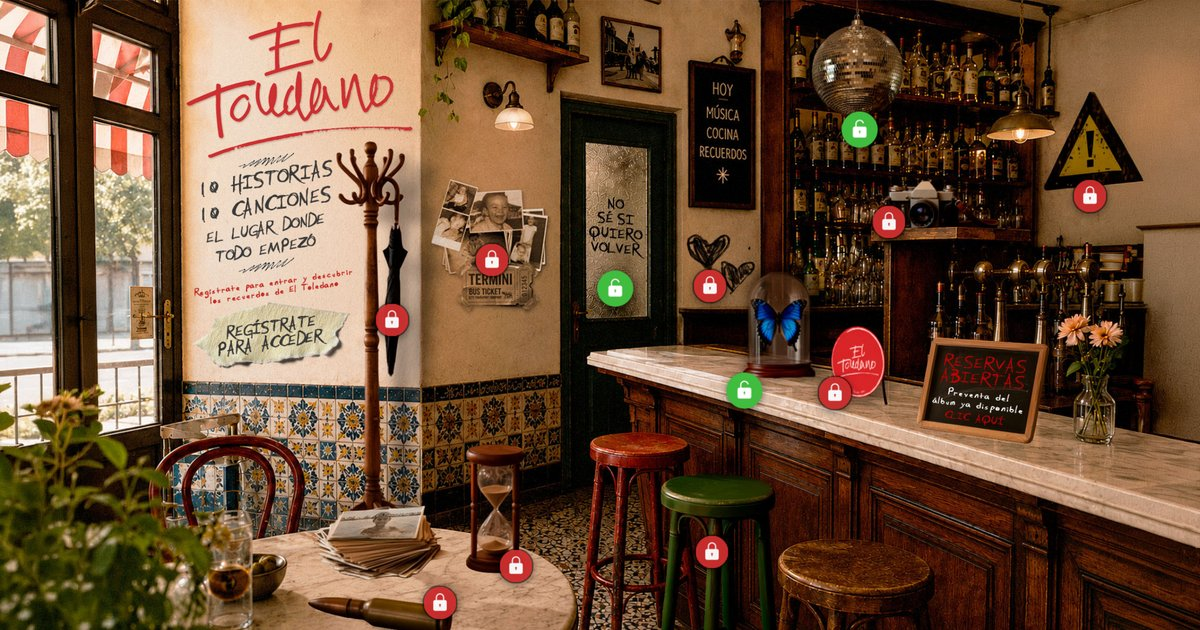
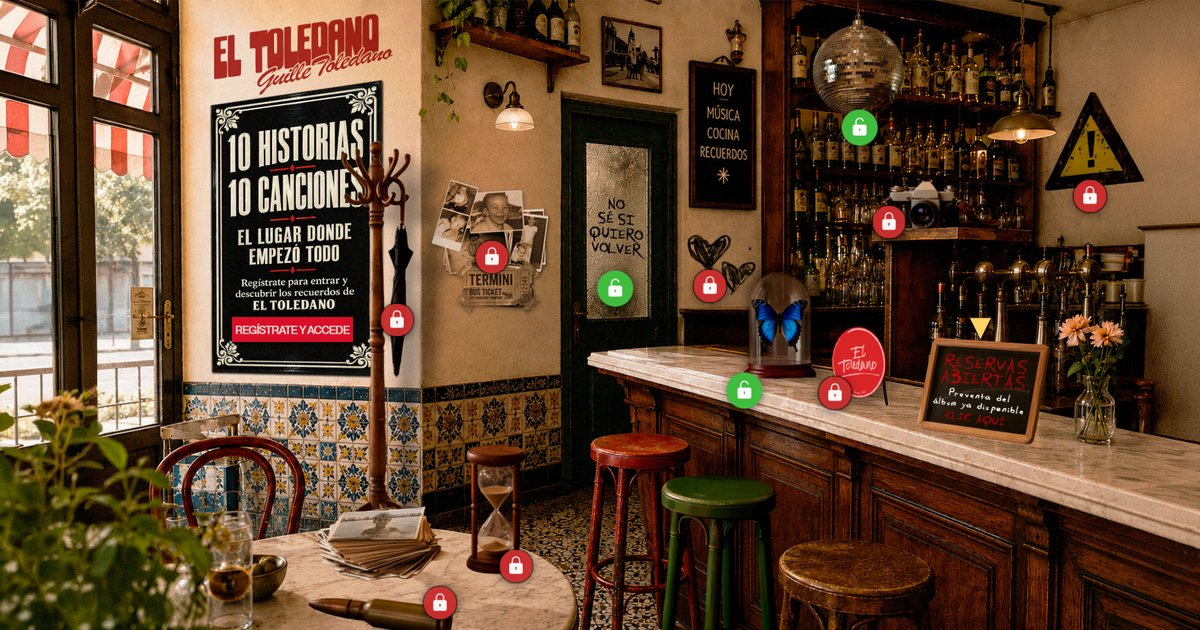
Update OG image, fix popup preload, remove unused image assets
- Regenerate og-image.jpg from the live homepage with fondo4.jpg and
  the new register button, replacing the fondo3.jpg-era screenshot.
- The servilleta_desktop_nueva.jpg preload was gated to desktop
  viewports, but the "Reservas abiertas" popup uses that same file on
  every screen size (it has no separate mobile background) — so on
  mobile it never got preloaded and still popped in late. Drop the
  media condition on that preload; the mobile-only napkin variant
  keeps its own.
- Remove 5 image files left over from the fondo3 -> fondo4 asset swap
  that nothing references anymore: fondo3.jpg, logo_home_txt.png,
  logo_seundarias.png, servilleta_desktop2.png, servilleta_movil.png.
  Verified with a repo-wide grep that no file (html/css/js/README)
  still references any of them, and with Playwright that both viewport
  sizes load with zero failed requests.

Claude-Session: https://claude.ai/code/session_01DRE3YbeJYkRn8SBSxDJxpk

diff --git a/index.html b/index.html
@@ -36,12 +36,15 @@
   </script>
   <!-- End Google Tag Manager -->
 
-  <!-- Fondo de la servilleta del modal de contenido: se referencia solo
-       desde CSS (background-image), así que sin este preload el navegador
-       no la pide hasta que se abre el primer candado (se nota el "salto"
-       al cargar). Cada uno con el mismo breakpoint que la media query de
-       css/style.css, para no pedir de más en el dispositivo equivocado. -->
-  <link rel="preload" as="image" href="assets/images/servilleta_desktop_nueva.jpg" media="(min-width: 641px)" />
+  <!-- Fondo de la servilleta del modal de contenido y del aviso de
+       "Reservas abiertas": se referencian solo desde CSS (background-image),
+       así que sin este preload el navegador no las pide hasta que se abre
+       el primer candado / aparece el aviso (se nota el "salto" al cargar).
+       servilleta_desktop_nueva.jpg se precarga siempre (sin media query)
+       porque el aviso emergente la usa en todos los tamaños de pantalla,
+       no solo en escritorio; la variante móvil del modal sí se limita al
+       mismo breakpoint que la media query de css/style.css. -->
+  <link rel="preload" as="image" href="assets/images/servilleta_desktop_nueva.jpg" />
   <link rel="preload" as="image" href="assets/images/servilleta_movil_nueva.jpg" media="(max-width: 640px)" />
 
   <link rel="stylesheet" href="assets/vendor/intl-tel-input/css/intlTelInput.min.css" />
